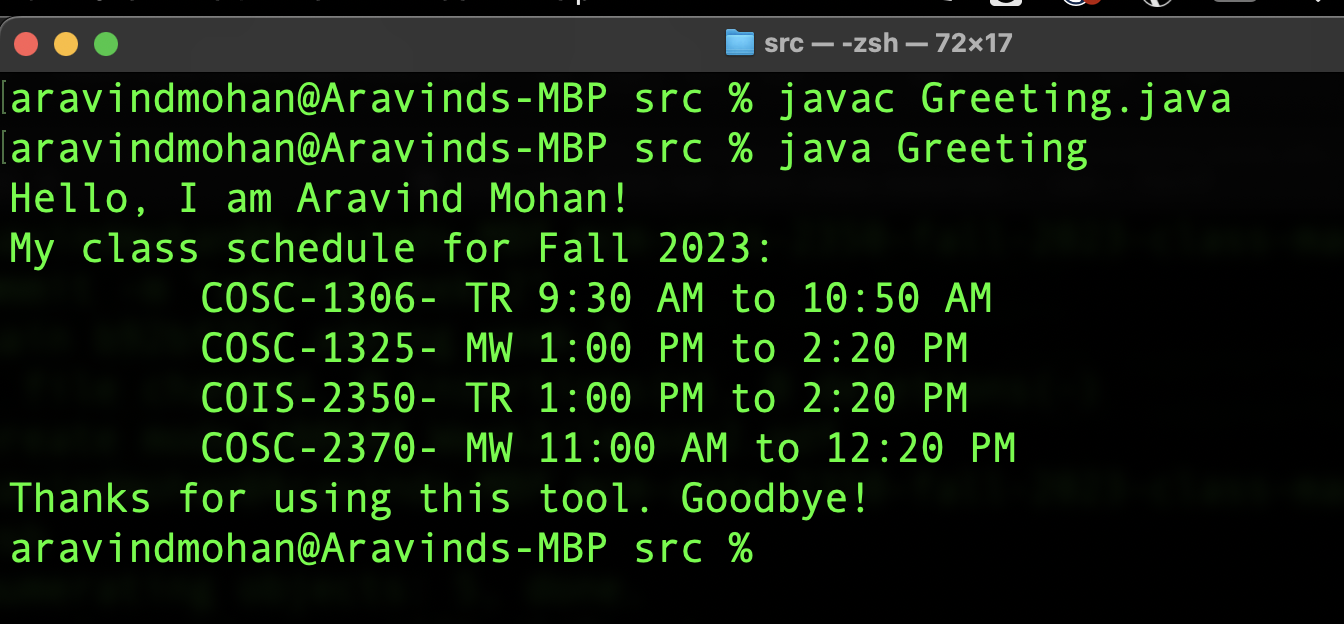
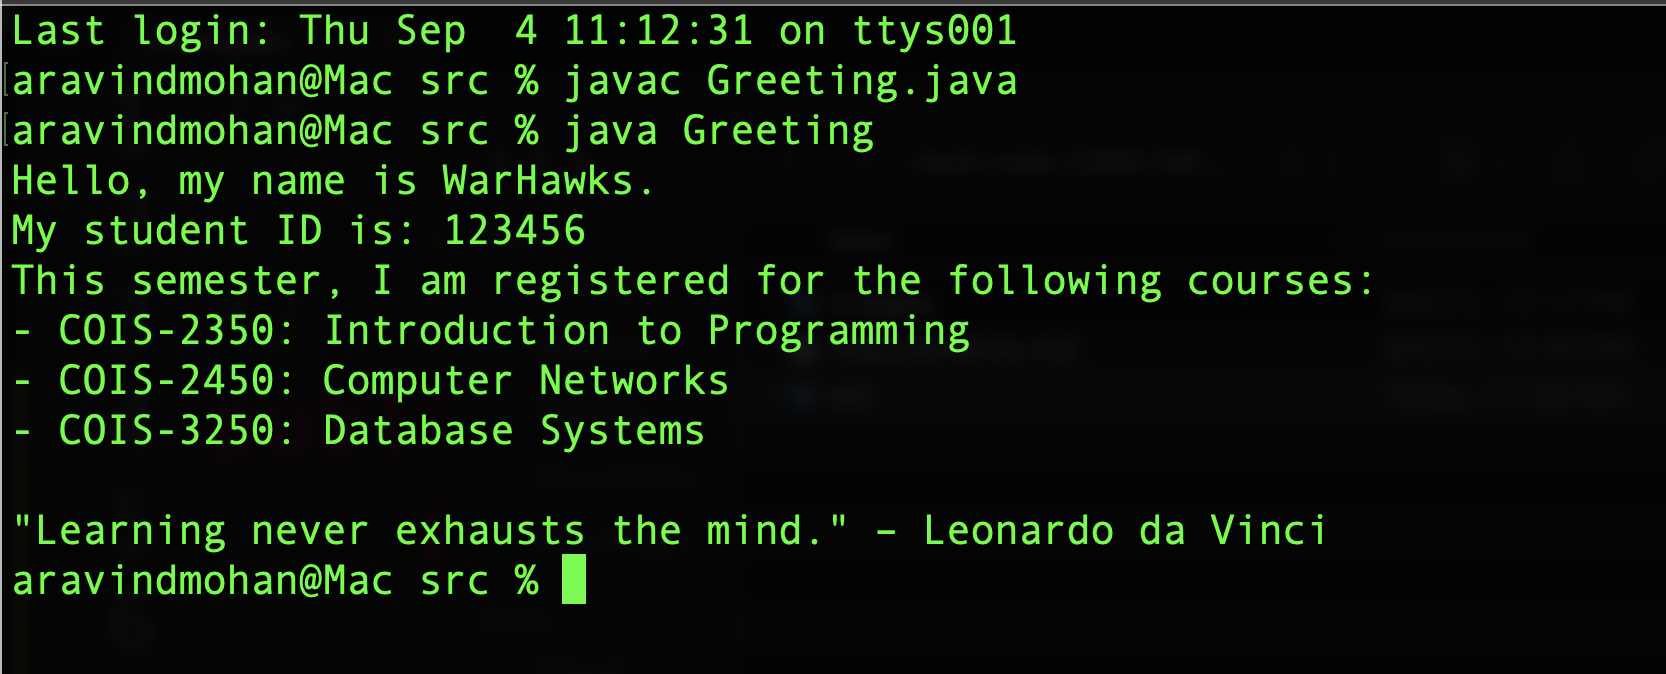
first commit

Changed region(s): [[0.0, 0.0, 1.0, 0.9135]]

diff --git a/src/Greeting.java b/src/Greeting.java
@@ -1,9 +1,9 @@
 /*
 	all your comments go here ...
 */
-public class Greeting{
-	public static void main(String[] args){
-		// add your java code here ...
-		System.out.println("Hello, I am Aravind Mohan!");
-	}
+public class Greeting {
+    public static void main(String[] args) {
+        // Display student introduction details
+        
+    }
 }

diff --git a/requirements.md b/requirements.md
@@ -1,28 +1,45 @@
-# mcm-cois-2350-fall-2024-week2
+# mcm-cois-2350-week2
 
-Write a simple Java program by modifying the starter code in the file named "Greeting.java" to do the following:
+Write a simple Java program by modifying the starter code in the file named Greeting.java to do the following:
 
-Display the messages exactly as shown in the sample output file named "sample-output.png" in the activity repository by using a separate output statement for each line of output. 
-
-
-The given output is providing the instructor's name and teaching schedule. Make sure to provide your name and your class schedule while implementing this little tool in Java. The sample output is also displayed at the end of this document!
-
-The commands for executing the starter code file is provided below:
+Develop a "Student Introduction Tool" that displays the following details, each on a separate line (using separate output statements):
 
 ```
+Your name
+Your student ID 
+The list of courses you are taking this semester
+```
+
+A motivational quote or message that inspires you (choose your own!)
+
+The program should display everything in a neat and clear format similar to the sample output file provided in the activity repository.
+
+⚡ Hint: You don’t need loops or arrays yet. Just use multiple System.out.println statements for each line of text. It is expected that all your code should go inside the main method for the most part to get it functional. 
+
+Example Output (your details will be different!):
+
+```
+Hello, my name is WarHawks.  
+My student ID is: 123456  
+This semester, I am registered for the following courses:  
+- COIS-2350: Introduction to Programming  
+- COIS-2450: Computer Networks  
+- COIS-3250: Database Systems  
+
+"Learning never exhausts the mind." – Leonardo da Vinci  
+```
+It is very important to make sure you match the output and review the First.java program that we did in class for getting proper directions. 
+
+Add your detailed comments through general header comments and comments inside your program. 
+
+Commands for running the program:
+
 javac Greeting.java
 java Greeting
-```
 
-The commands for submitting the completed activity is provided below:
+Commands for submitting the completed activity:
 
-```
 git add .
 git commit -m "submitting completed work for week2!"
 git push
-```
-
-## Sample Output:
-
-![sample-output1](images/sample-output.png)
 
